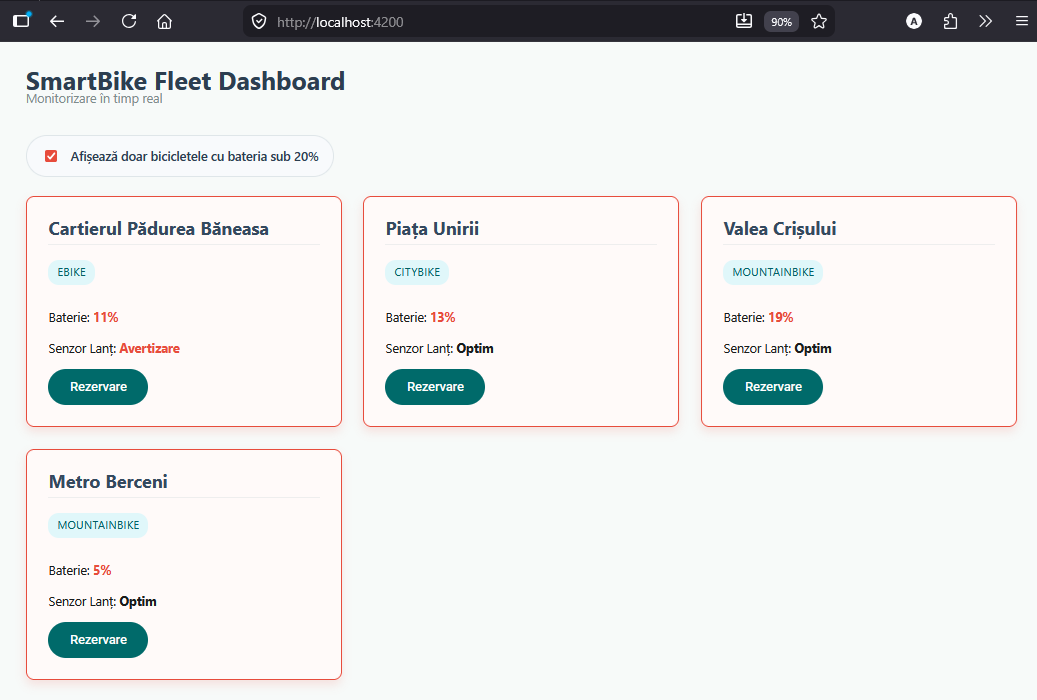
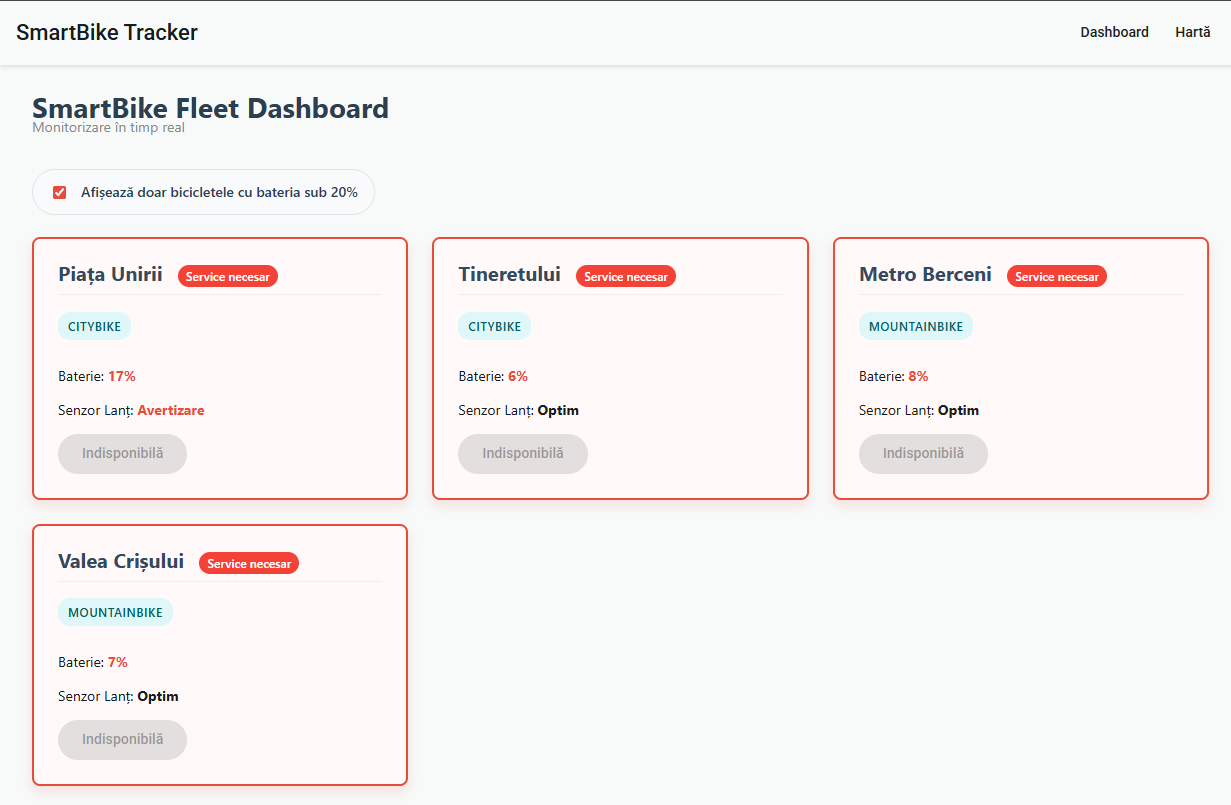
docs: update README and replace project screenshots

diff --git a/README.md b/README.md
@@ -1,31 +1,47 @@
 # SmartBike Tracker 🚲
 
-A full-stack Proof of Concept (PoC) for real-time monitoring of a fleet of smart electric bikes. The project demonstrates the integration between a robust .NET API, based on Clean Architecture principles, a PostgreSQL relational database, and a reactive frontend built with Angular.
+A full-stack Proof of Concept (PoC) designed for the real-time monitoring and management of a smart electric bike fleet. This project showcases a highly scalable integration between a robust **.NET API**, based on **Clean Architecture** and **Domain-Driven Design (DDD)** principles, a PostgreSQL relational database, and a reactive frontend powered by **Angular 17+**.
 
 ## 🌟 Features
 
-* **Real-time Monitoring:** The dashboard retrieves updated fleet data every 5 seconds using RxJS polling.
-* **Automated Alerts:** The interface reacts instantly and visually highlights (with red cards) bikes that require attention (e.g., battery level critically low at under 20% or a chain requiring maintenance).
-* **Dynamic Filtering:** Easily toggle visibility to focus only on bikes needing an immediate charge using the low battery filter.
-* **Smart Reservation System:** Built-in booking system with backend validation to prevent time-slot overlaps, featuring a responsive Angular Material dialog and comprehensive error handling.
-* **Decoupled Architecture:** The backend is structured in layers (Domain, Application, Infrastructure, API) to allow for easy database changes without affecting the business logic.
+* **Real-Time Telemetry Simulation:** A built-in `.NET BackgroundService` acts as an IoT simulator, continuously draining battery levels in the database. The Angular frontend uses **RxJS polling** to fetch and animate these changes live every 5 seconds, creating a true real-time dashboard without manual page refreshes.
+* **Live State Management (Color-Coded):** Bikes are visually categorized based on their real-time telemetry and booking status:
+  * 🔵 **Blue (Available & Normal):** Fully operational, ready to be booked.
+  * 🟡 **Yellow (In Use):** Currently booked and out on a ride.
+  * 🔴 **Red (Needs Maintenance):** Critical battery level (<20%) or a chain sensor alerting for immediate physical maintenance.
+* **Diverse Fleet Support:** System handles multiple models: *EBikes*, *CityBikes*, and *MountainBikes*.
+* **Interactive Fleet Map:** A geographical map view, integrated with Leaflet, showing the real-time physical distribution and status of all bikes in the network.
+* **Smart Reservation Engine:** A highly secure booking system featuring:
+  * Frontend asynchronous overlap validation.
+  * Logical time-range validation (Start time must precede End time).
+  * Backend *fail-fast* database constraints to prevent double-booking.
+* **Dynamic Filtering:** One-click toggle checkbox to isolate and display only bikes requiring an immediate charge (battery < 20%).
 
 ## 📸 Screenshots
 
-### Fleet Dashboard (Normal Status)
-![SmartBike Dashboard Normal](./docs/dashboard-normal.png)
+1. ![Fleet Dashboard - Mixed States](./docs/dashboard-mixed-states.png)
+    *Dashboard showing bikes in various states: In Use (Yellow), Needs Service (Red), and Available (Blue).*
+2. ![Interactive Map View](./docs/map-view.png)
+    *Geographical distribution of all bikes on the map.*
+3. ![Unavailable Bike](./docs/unavailable-bike.png)
+    *Trying to access a bike that is currently unavailable.*
+4. ![Valid Reservation Dialog](./docs/valid-reservation.png)
+    *Angular Material dialog ready to submit a valid reservation.*
+5. ![Booking Error - Time Overlap](./docs/booking-error-overlap.png)
+    *Validation preventing a reservation that overlaps with an existing booking.*
+6. ![Booking Error - Invalid Range](./docs/booking-error-range.png)
+    *Validation preventing a booking where the end time precedes the start time.*
+7. ![Low Battery Filter Enabled](./docs/low-battery-filter.png)
+    *Dashboard filtered to display only bikes with battery levels below 20%.*
 
-### Triggering a Telemetry Alert
-![SmartBike Dashboard Alert](./docs/dashboard-alert.png)
+## 🏗 Architecture Focus: Clean Architecture
 
-### Dynamic Filtering (low battery only)
-![Dynamic SmartBike Filtering](./docs/low-battery-filter.png)
+This project was intentionally designed to be framework-independent at its core, ensuring maximum maintainability and testability. The backend is decoupled into strict layers:
 
-### Booking a Bike (successful reservation)
-![Booking a SmartBike](./docs/smartbike-booking.png)
-
-### Booking Conflict (time overlap validation)
-![SmartBike Reservation Overlap](./docs/reservation-overlap.png)
+1. **Domain Layer:** The heart of the software. It uses a **Rich Domain Model** with *Value Objects* (`Battery`, `ChainSensor`) and encapsulates business rules inside the entities (e.g., `bike.UpdateTelemetry()`) rather than relying on anemic data structures with public setters.
+2. **Application Layer:** Contains **Use Cases** (e.g., `CreateReservationUseCase`, `SimulateTelemetryDataUseCase`). It defines the `IBikeRepository` interface, ensuring the business logic remains completely ignorant of the database technology.
+3. **Infrastructure Layer:** Implements the repositories using **Entity Framework Core**. Changing from PostgreSQL to SQL Server requires zero changes to the Domain or Application layers.
+4. **API Layer:** The entry point (Controllers) and background workers (`TelemetrySimulatorService`). It handles HTTP requests, dependency injection setup, and CORS.
 
 ## 🛠 Technologies Used
 
@@ -33,13 +49,19 @@ A full-stack Proof of Concept (PoC) for real-time monitoring of a fleet of smart
 * C# & ASP.NET Core Web API
 * Clean Architecture, Domain-Driven Design (DDD) & Dependency Injection
 * Entity Framework Core (Code-First) & PostgreSQL
+* `IHostedService` / `BackgroundService` for IoT telemetry simulation
 * CORS configured for communication with the frontend
 
 ### Frontend (Angular)
 * Angular 17+ (Standalone Components, `@if` and `@for` control flow)
-* Angular Material (Dialogs, Datepicker, Input components)
+* Angular Material (Dialogs, Datepicker, Form Fields)
+* Leaflet.js for rendering interactive geographical maps
 * RxJS (`BehaviorSubject`, `switchMap`, `timer` for polling)
 * SCSS for a modern and responsive interface
+
+## 🗺 Roadmap (Coming Soon)
+
+* **Global Reservation Calendar:** Integration of `angular-calendar` to visualize all historical and upcoming bookings across the entire fleet in a comprehensive weekly/monthly view.
 
 ## 📋 Prerequisites
 
@@ -49,7 +71,7 @@ This project was developed and tested on **Windows (win32 x64)** using the follo
 * **Node.js:** 24.18.0
 * **npm:** 11.18.0
 * **Angular CLI:** 22.0.4
-* PostgreSQL & pgAdmin 4 (for database management)
+* **PostgreSQL & pgAdmin 4** (for database management)
 
 Make sure you have these versions (or compatible later versions) installed before attempting to run the application.
 
@@ -68,7 +90,7 @@ Navigate to the API folder and run:
 cd SmartBikeTracker.Api
 dotnet run
 ```
-The API will start at http://localhost:5009.
+The API will start at http://localhost:5009 and the Telemetry Simulator will begin draining batteries automatically.
 
 ### 3. Starting the Frontend
 In a separate terminal, navigate to the Angular application folder and run:
